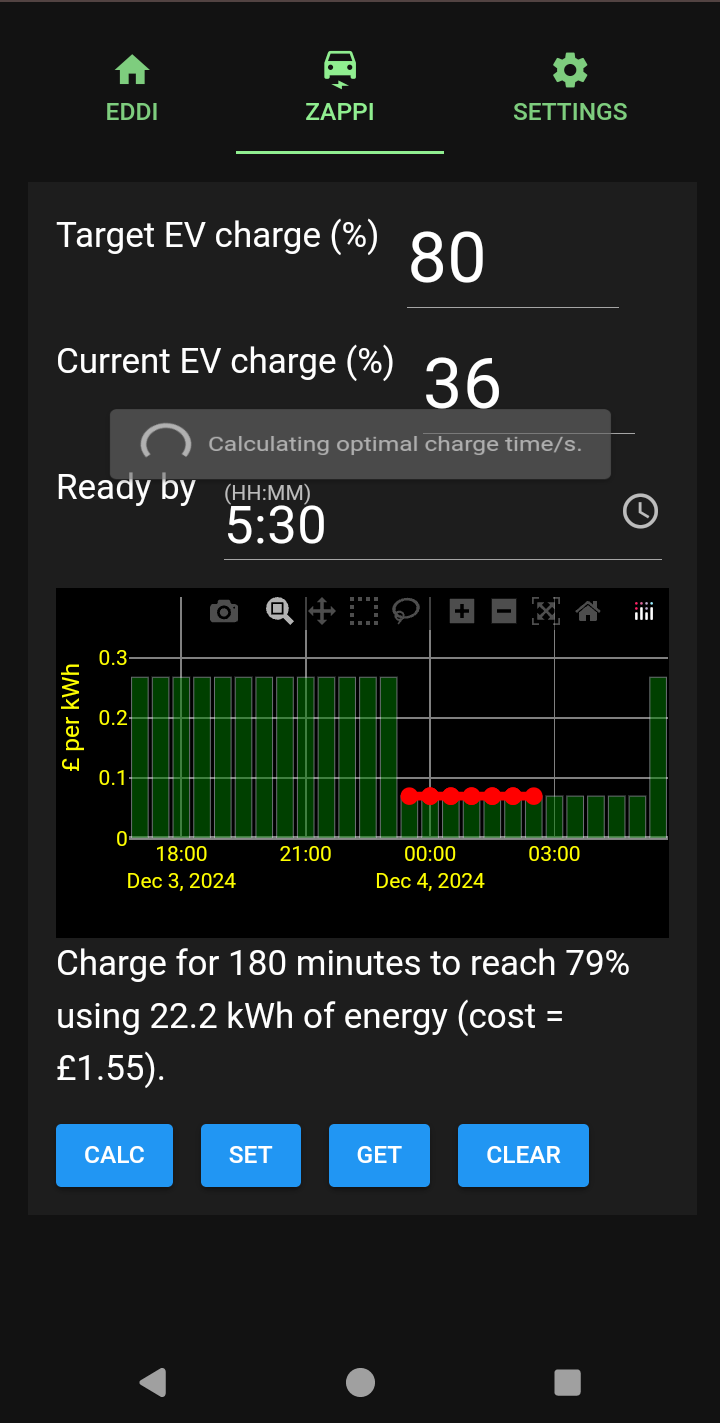
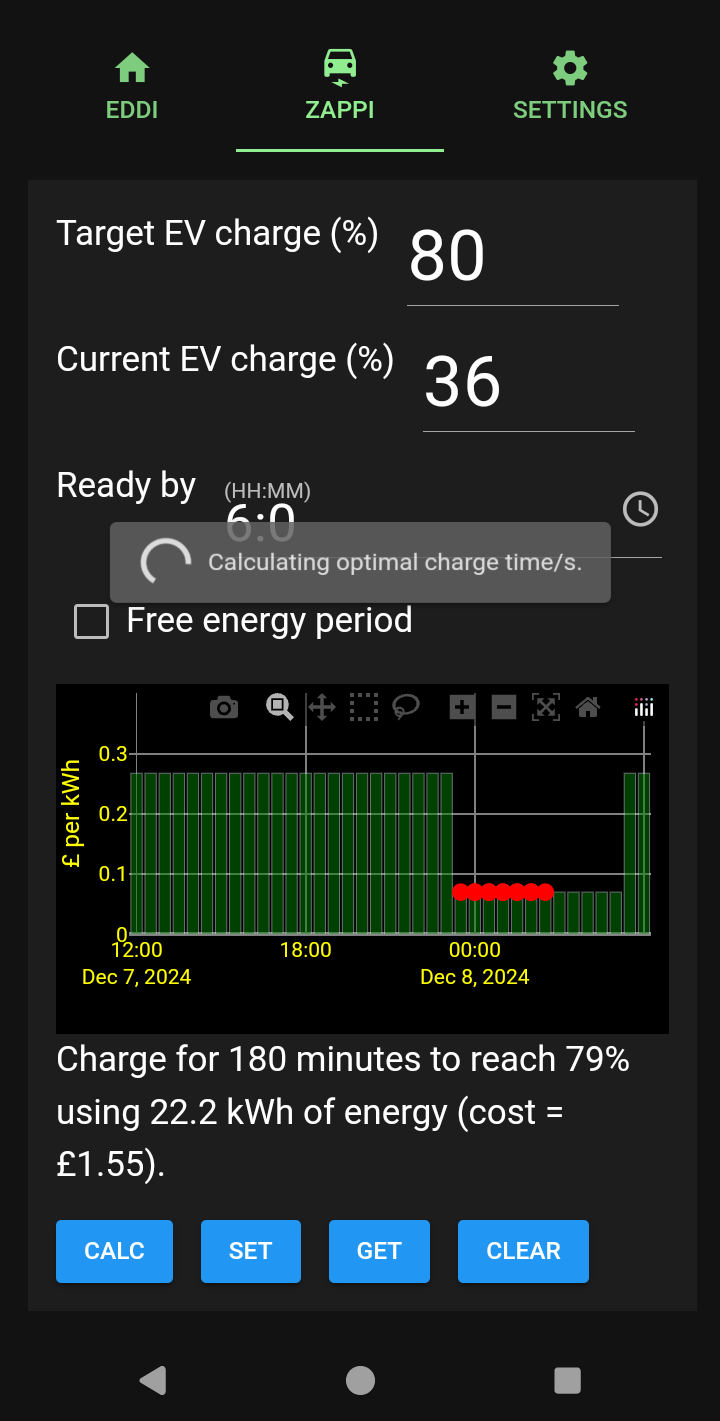
Update the doc to add details of using the free energy option.

diff --git a/doc/ev_charging.md b/doc/ev_charging.md
@@ -19,6 +19,13 @@ The three fields at the top of the page are
 
     You may enter the time that you wish the EV to be charged in HH:MM format. When calculating the charge, this time will be taken into account.
 
+- Free energy period
+
+    If your electricity provider notifies you of a period of time when free electricity will be available to you you can select this checkbox. If selected
+    when you press the CALC button you will be prompted to enter the start time and duration of the free electricity period. This period is included in the
+    calculation when determining the optimal charge period to reach your target charge level on your EV.
+
+
 The buttons have the following functions.
 
 - CALC
@@ -37,39 +44,58 @@ The buttons have the following functions.
 
     Clear the charge schedule for your zappi charger. After selecting this it may take some time for the schedule to be cleared/reset.
 
+# How to charge your EV
 
-The example below shows how to setup an EV charge.
+The example below shows how to setup an EV charge. For this example the 'Other Tariff' was selected in the SETTINGS tab and the values entered for the tariff were those that currently apply for the 'Intelligent Octopus Go' tariff.
 
 - Optionally change the required target EV charge level.
 - Enter the current EV charge level.
 - Optionally set/change the ready by time.
+- Optionally select the Free energy period checkbox.
 - Select the CALC button.
 
 The following is then displayed
 
 <img src="images/zappi_calc_charge_1.png" width="500"/>
 
-This shows the time required to achieve the target EV charge level. In this case the target charge level was 80% and the calculated charge would charge the battery to 79%. The difference is because the zappi charges in 15 minute chunks. Therefore the exact target charge level may not be achieved. In such a situation you can make small changes to the target charge level if required. This allows you to cause an extra 15 minutes of charge to be added. In the above example if the target charge level is changed to 82% the charge time changes to 195 minutes, as shown below.
+This shows the time required to achieve the target EV charge level. In this case the target charge level was 80% and the calculated charge would charge the battery to 79%. The difference is because the zappi charges in 15 minute chunks. Therefore the exact target charge level may not be achieved. In such a situation you can make small changes to the target charge level if required. This allows you to add an extra 15 minutes of charge. In the above example if the target charge level is changed to 82% the charge time changes to 195 minutes, as shown below.
 
 <img src="images/zappi_calc_charge_2.png" width="500"/>
 
 The graph shows the tariff in green and the charge period in red. You may zoom into the graph by dragging over the required area. The X in the toolar at the top of the graph can be used to autoscale the graph back to its original size.
 
-Once you are happy with the selected charge times you can press the SET button to apply the schedule to your zappi charger. If the schedule is successfully uploaded to the myenergi system the SET button background will turn purple to indicate that a schedule has been set. The SET button will turn green while the EV is being charged.
+Once you are happy with the selected charge times you can press the SET button to apply the schedule to your zappi charger. If the schedule is successfully uploaded to the myenergi system the SET button background will turn purple to indicate that a schedule has been set. An example of this is shown below.
+
+<img src="images/zappi_calc_charge_3.png" width="500"/>
+
+The SET button will turn green while the EV is being charged.
 
 If you wish to check the schedule that has been uploaded to the myenergi system you may select the GET button. It takes some time (5 minutes or more sometimes) for the myenergi system to update the charge schedule. If the GET button is selected before the myenergu zappi charge schedule has been updated the following may be displayed.
 
 <img src="images/zappi_calc_charge_4.png" width="500"/>
 
-If you wait before the GET button is selected the schedule will be displayed as shown below.
+If you wait before the GET button is selected the schedule should be displayed as shown below.
 
 <img src="images/zappi_calc_charge_5.png" width="500"/>
 
-In the above example the Intelligent Octopus Go tariff was used. However if (in the settings tab) the Octopus Agile tariff is selected, then when the CALC button is selected the variable tariff (in 30 minute chunks) for the next period of time is read from the internet. If using the Agile tariff it is recommended that you select the CALC button after 4:00 - 4:15 PM as this is when the Agile tariff values are updated for the next day.
+# Free energy charging
+If your electricity provider notifies you of a period of time when free energy is available you (E.G Octopus energy '[Power Ups](https://www.bbc.co.uk/news/uk-england-essex-66775731)' are available in some area's) you can select the Free energy period checkbox before selecting the CALC button. If you do this, when the CALC button is selected you will be presented with the dialog shown below. Enter the start time and duration of the free energy period and then select the OK button.
+
+<img src="images/zappi_calc_charge_6.png" width="500"/>
+
+The calculation is performed and the free energy period should be used before other tariff values. An example of this can be seen below.
+
+<img src="images/zappi_calc_charge_7.png" width="500"/>
+
+You may then select the SET button to apply the schedule to your zappi charger as in the previous example.
+
+# Charging with the Octopus Agile tariff
+
+In the first example the Intelligent Octopus Go tariff was used. However if (in the SETTINGS tab) the Octopus Agile tariff is selected, then when the CALC button is selected the tariff (variable in 30 minute chunks) for the next period of time is read over the internet. If using the Agile tariff it is recommended that you select the CALC button after 4:00 - 4:15 PM as this is when the Agile tariff values are updated for the next day.
 
 An example of selecting the CALC button when the Octopus Agile tariff was configured is shown below.
 
-<img src="images/zappi_calc_charge_6.png" width="500"/>
+<img src="images/zappi_calc_charge_8.png" width="500"/>
 
 
 ### Note
